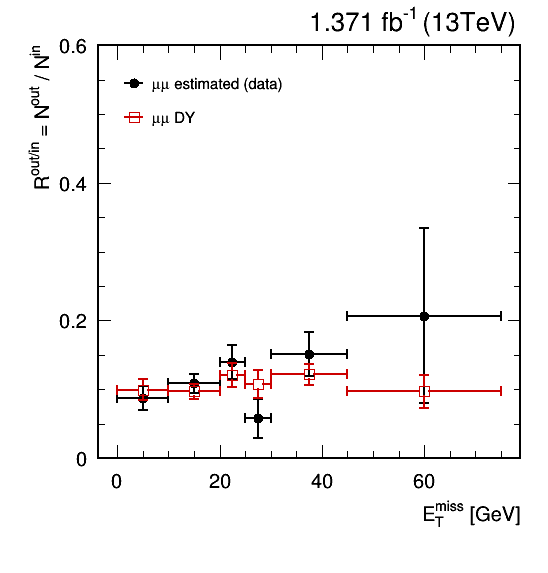
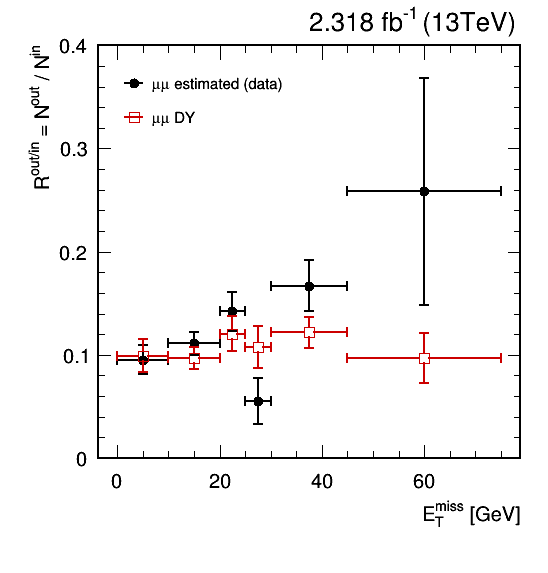
Minor changes

diff --git a/datadriven/getDYScale.C b/datadriven/getDYScale.C
@@ -1,6 +1,6 @@
 // Constants
 //------------------------------------------------------------------------------
-const double lumi_fb = 1.371;
+const double lumi_fb = 2.318;
 
 enum {
   ee,
@@ -111,10 +111,10 @@ int          bin_metmax;
 //    (1) k_ee  = 0.5 * sqrt(n_ee / n_mm);
 //    (2) scale = (n_in_ee - n_in_wz - n_in_zz - k_ee * n_in_em) / n_in_dy;
 //
-// Results for MET > 45 GeV and 1.371 fb-1,
+// Results for MET > 45 GeV and 2.318 fb-1,
 //
-//    ee SF(est/DY)  1.370 +- 0.179
-//    mm SF(est/DY)  1.617 +- 0.151
+//    ee SF(est/DY)  1.281 +- 0.149
+//    mm SF(est/DY)  1.435 +- 0.122
 //
 //~~~~~~~~~~~~~~~~~~~~~~~~~~~~~~~~~~~~~~~~~~~~~~~~~~~~~~~~~~~~~~~~~~~~~~~~~~~~~~
 void getDYScale(TString analysis = "TTDM")
@@ -229,7 +229,7 @@ void getDYScale(TString analysis = "TTDM")
       mgraph[k]->GetYaxis()->SetTitle("R^{out/in} = N^{out} / N^{in}");
 
       mgraph[k]->SetMinimum(0.0);
-      mgraph[k]->SetMaximum(0.6);
+      mgraph[k]->SetMaximum(0.4);
 
       DrawLegend(0.22, 0.83, (TObject*)graph_R_data[k], " " + lchannel[k] + " estimated (data)");
       DrawLegend(0.22, 0.77, (TObject*)graph_R_dy  [k], " " + lchannel[k] + " DY");

diff --git a/runAnalysis.C b/runAnalysis.C
@@ -20,7 +20,7 @@ void runAnalysis(TString filename,
   //  AnalysisMonoH analysis(latino, systematic); analysis.Loop("MonoH", filename, lumi_fb);
   //  AnalysisStop  analysis(latino, systematic); analysis.Loop("Stop",  filename, lumi_fb);
   //  AnalysisTop   analysis(latino, systematic); analysis.Loop("Top",   filename, lumi_fb);
-  AnalysisTTDM  analysis(latino, systematic); analysis.Loop("TTDM",  filename, lumi_fb_blind);
+  AnalysisTTDM  analysis(latino, systematic); analysis.Loop("TTDM",  filename, lumi_fb);  // lumi_fb_blind
   //  AnalysisWW    analysis(latino, systematic); analysis.Loop("WW",    filename, lumi_fb);
   //  AnalysisWZ    analysis(latino, systematic); analysis.Loop("WZ",    filename, lumi_fb);
 }

diff --git a/src/AnalysisTTDM.C b/src/AnalysisTTDM.C
@@ -68,7 +68,7 @@ void AnalysisTTDM::Loop(TString analysis, TString filename, float luminosity)
 
     // Analysis
     //--------------------------------------------------------------------------
-    if (!_ismc && run > 258750) continue;  // Luminosity for any blinded analysis
+    //    if (!_ismc && run > 258750) continue;  // Luminosity for any blinded analysis
 
     if (Lepton1.flavour * Lepton2.flavour > 0) continue;
 

diff --git a/test/runPlotter.C b/test/runPlotter.C
@@ -34,7 +34,7 @@ void runPlotter(TString level,
 
   float lumi = lumi_fb;
 
-  if (analysis.EqualTo("TTDM")) lumi = lumi_fb_blind;
+  //  if (analysis.EqualTo("TTDM")) lumi = lumi_fb_blind;
 
   Bool_t scale = logY;
 
